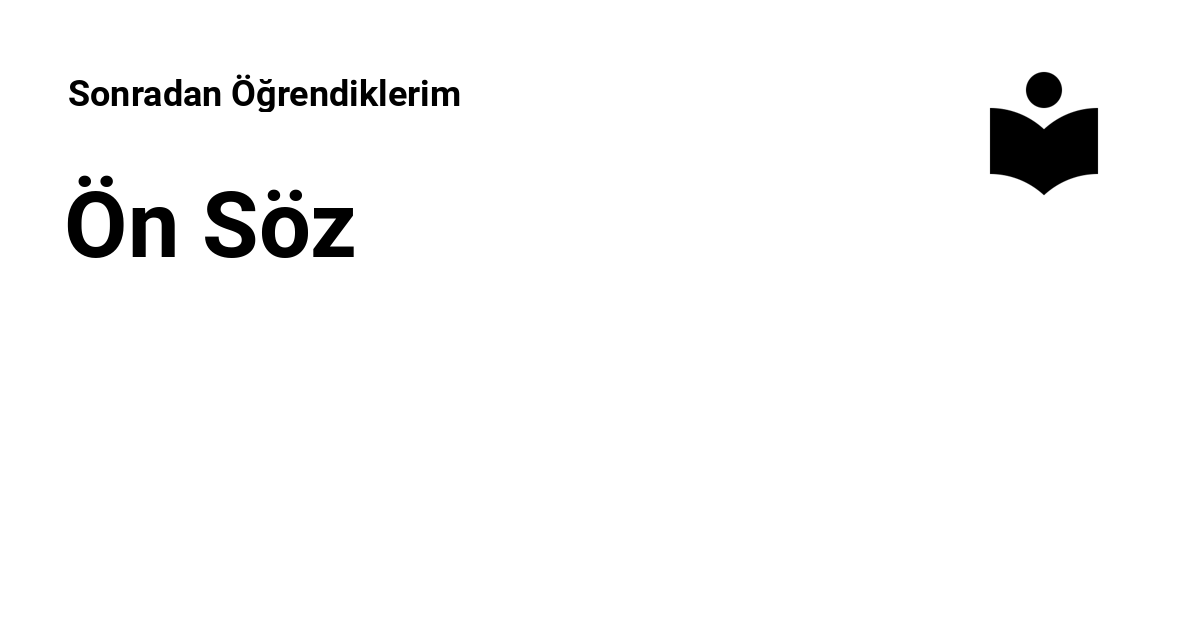
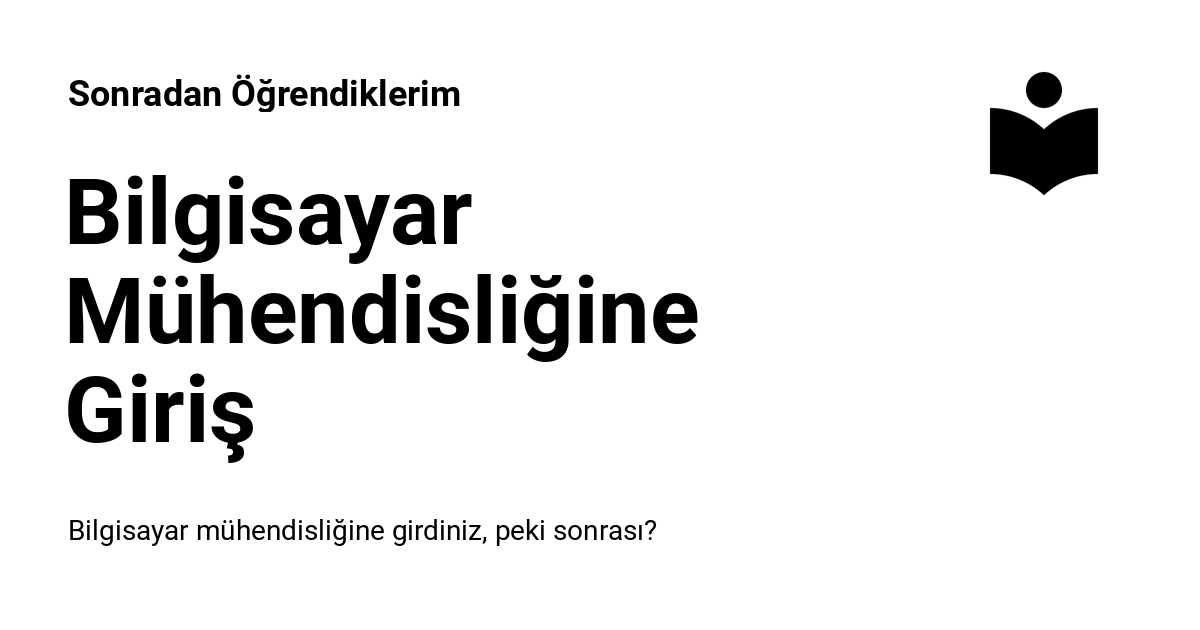
Deployed 087d9e4 with MkDocs version: 1.5.3

Changed region(s): [[0.0308, 0.2714, 0.5858, 0.573], [0.0617, 0.8143, 0.555, 0.8746], [0.0308, 0.573, 0.2158, 0.754]]

diff --git a/bilgisayar-muhendisligine-giris/onsoz/index.html b/bilgisayar-muhendisligine-giris/onsoz/index.html
@@ -6,6 +6,8 @@
       <meta charset="utf-8">
       <meta name="viewport" content="width=device-width,initial-scale=1">
       
+        <meta name="description" content="Bilgisayar mühendisliğine girdiniz, peki sonrası?">
+      
       
         <meta name="author" content="Eren Türkay">
       
@@ -24,7 +26,7 @@
     
     
       
-        <title>Ön Söz - Sonradan Öğrendiklerim</title>
+        <title>Bilgisayar Mühendisliğine Giriş - Sonradan Öğrendiklerim</title>
       
     
     
@@ -71,9 +73,9 @@
       
         <meta  property="og:type"  content="website" >
       
-        <meta  property="og:title"  content="Ön Söz - Sonradan Öğrendiklerim" >
+        <meta  property="og:title"  content="Bilgisayar Mühendisliğine Giriş - Sonradan Öğrendiklerim" >
       
-        <meta  property="og:description"  content="None" >
+        <meta  property="og:description"  content="Bilgisayar mühendisliğine girdiniz, peki sonrası?" >
       
         <meta  property="og:image"  content="https://sonradanogrendiklerim.com/assets/images/social/bilgisayar-muhendisligine-giris/onsoz.png" >
       
@@ -87,9 +89,9 @@
       
         <meta  name="twitter:card"  content="summary_large_image" >
       
-        <meta  name="twitter:title"  content="Ön Söz - Sonradan Öğrendiklerim" >
+        <meta  name="twitter:title"  content="Bilgisayar Mühendisliğine Giriş - Sonradan Öğrendiklerim" >
       
-        <meta  name="twitter:description"  content="None" >
+        <meta  name="twitter:description"  content="Bilgisayar mühendisliğine girdiniz, peki sonrası?" >
       
         <meta  name="twitter:image"  content="https://sonradanogrendiklerim.com/assets/images/social/bilgisayar-muhendisligine-giris/onsoz.png" >
       
@@ -146,7 +148,7 @@
         <div class="md-header__topic" data-md-component="header-topic">
           <span class="md-ellipsis">
             
-              Ön Söz
+              Bilgisayar Mühendisliğine Giriş
             
           </span>
         </div>
